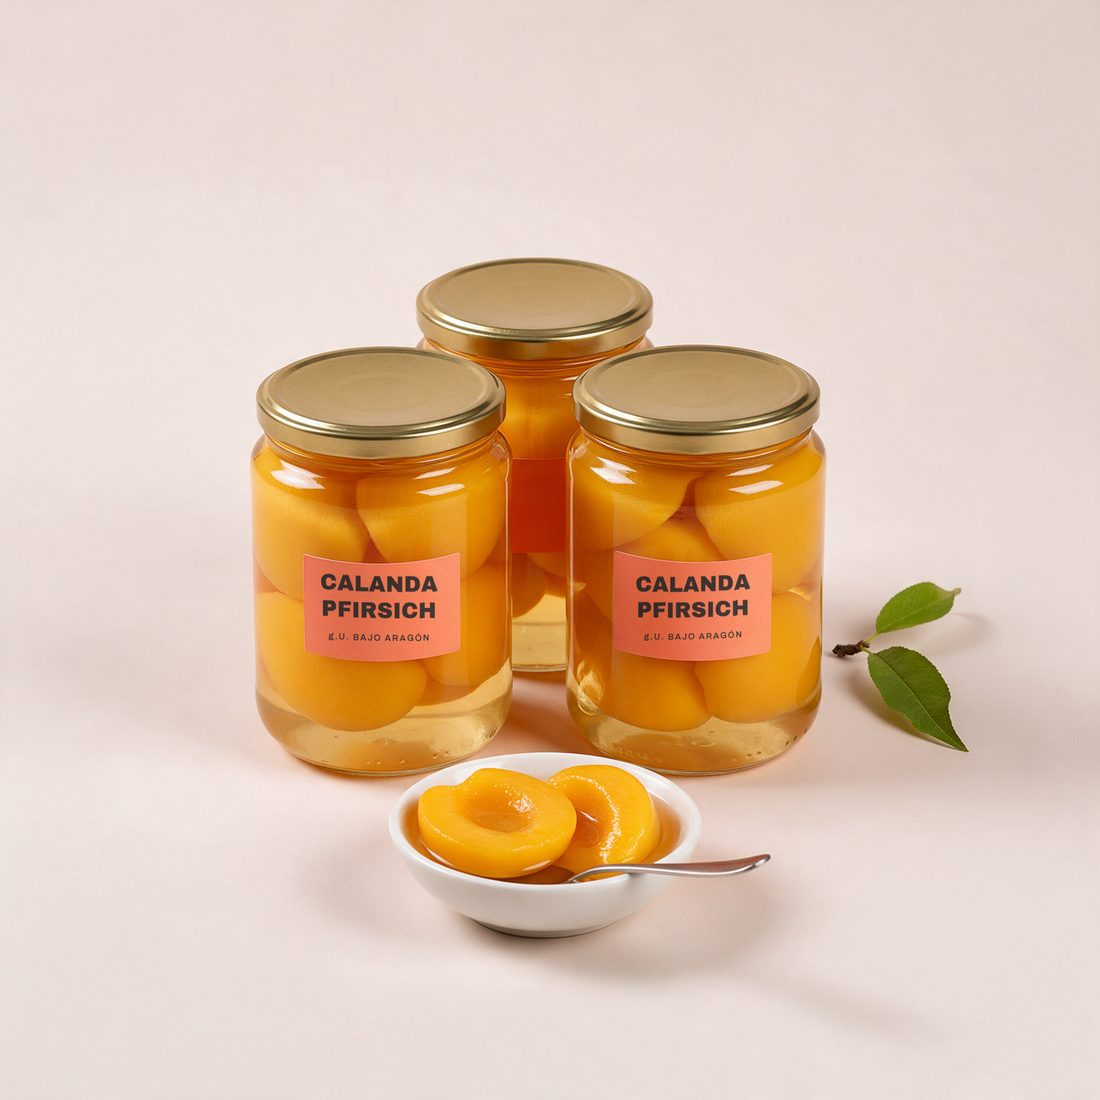
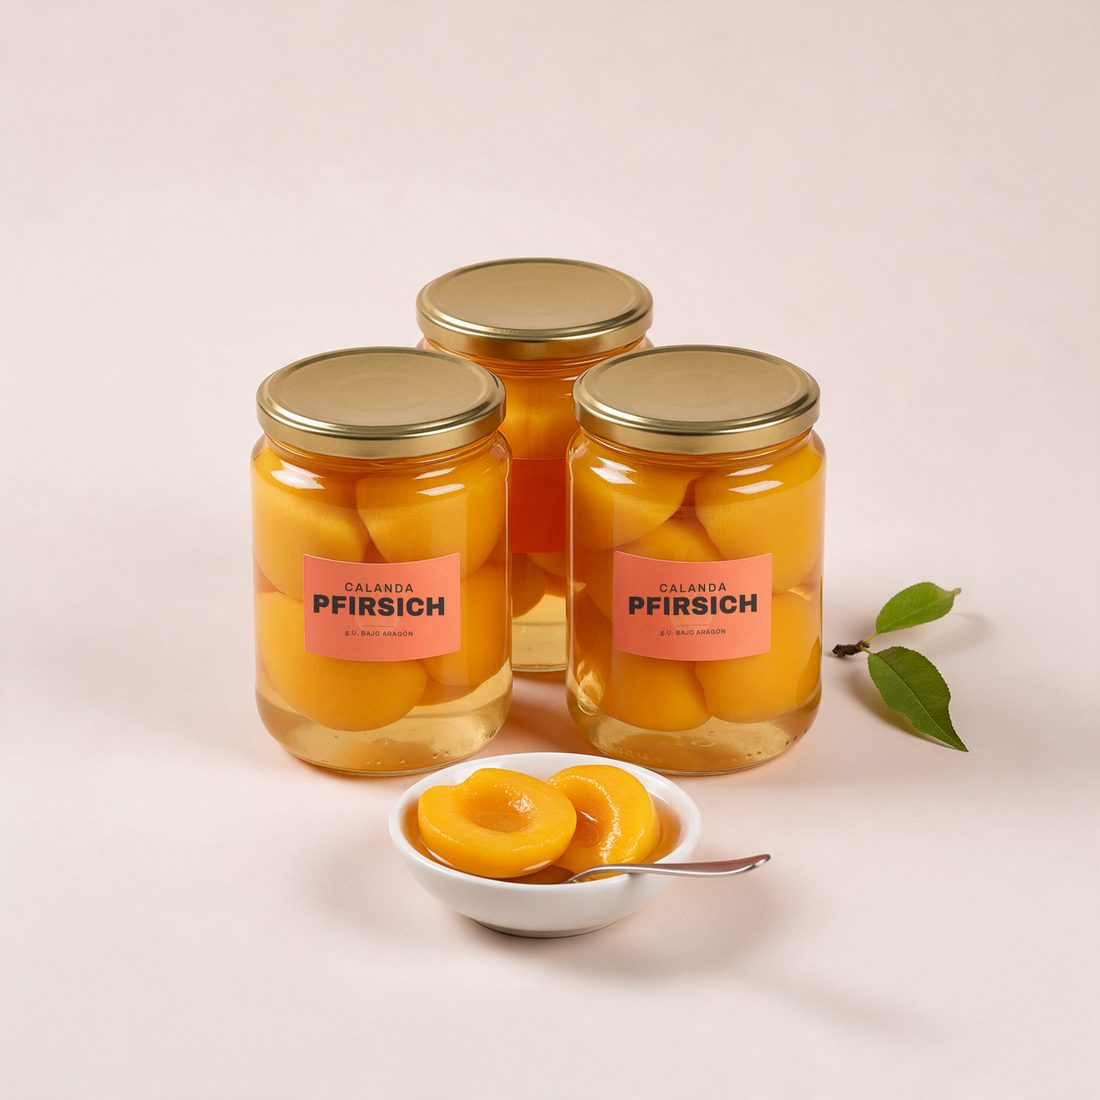
Publica de verdad las etiquetas nuevas y agrupa el catalogo bajo Todo
Las imagenes optimizadas que sirve la web se habian generado antes de
rehacer las etiquetas, asi que seguian mostrando la version anterior.
Se regeneran desde los originales ya marcados.

El filtro Todo pasa a mostrar las ocho referencias en una sola rejilla,
sin repetir las cabeceras de grupo que ya dicen las pastillas de arriba.

Changed region(s): [[0.5564, 0.5255, 0.7109, 0.5873], [0.2782, 0.5255, 0.4018, 0.5873]]

diff --git a/index.html b/index.html
@@ -520,6 +520,8 @@ body{overflow-x:hidden}
   .medidor{padding:16px 18px}
   .medidor-t b{font-size:1.55rem}
 }
+.nota-cat{font-size:.95rem;color:var(--gris);margin:0 0 20px;max-width:640px}
+@media(max-width:959px){.nota-cat{font-size:.88rem;margin-bottom:14px}}
 </style>
 </head>
 <body>
@@ -1936,14 +1938,15 @@ function pintarProductos(){
         </div>
       </div></div>`;
   };
-  c.innerHTML="";
-  const grupos = catSel ? [catSel] : [1,2,3];
-  grupos.forEach(g=>{
-    const lista=PROD.map((pr,i)=>[pr,i]).filter(([pr])=>pr.gr===g);
-    if(!lista.length)return;
-    c.innerHTML+=`<div class="grupo-cab"><h3 class="tit h3">${t('gr'+g+'_t')}</h3><p>${t('gr'+g+'_d')}</p></div>
+  // con el filtro en Todo se muestran las ocho referencias seguidas: las pastillas
+  // de arriba ya dicen de que va cada grupo y repetir el titular sobraba
+  if(!catSel){
+    c.innerHTML=`<div class="rejilla3">${PROD.map((pr,i)=>tarjeta(pr,i)).join("")}</div>`;
+  } else {
+    const lista=PROD.map((pr,i)=>[pr,i]).filter(([pr])=>pr.gr===catSel);
+    c.innerHTML=`<p class="nota-cat">${t('gr'+catSel+'_d')}</p>
       <div class="rejilla3">${lista.map(([pr,i])=>tarjeta(pr,i)).join("")}</div>`;
-  });
+  }
 }
 let prodActual=0;
 function verProducto(i,sinIr){
